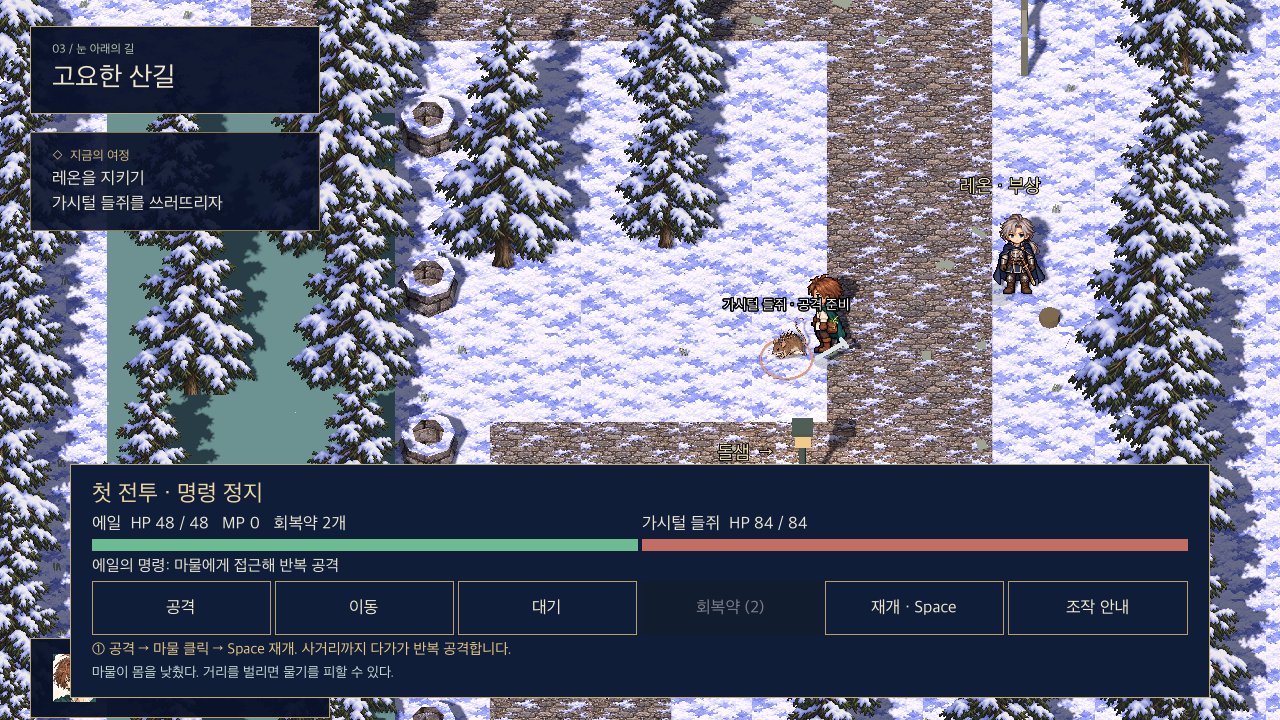
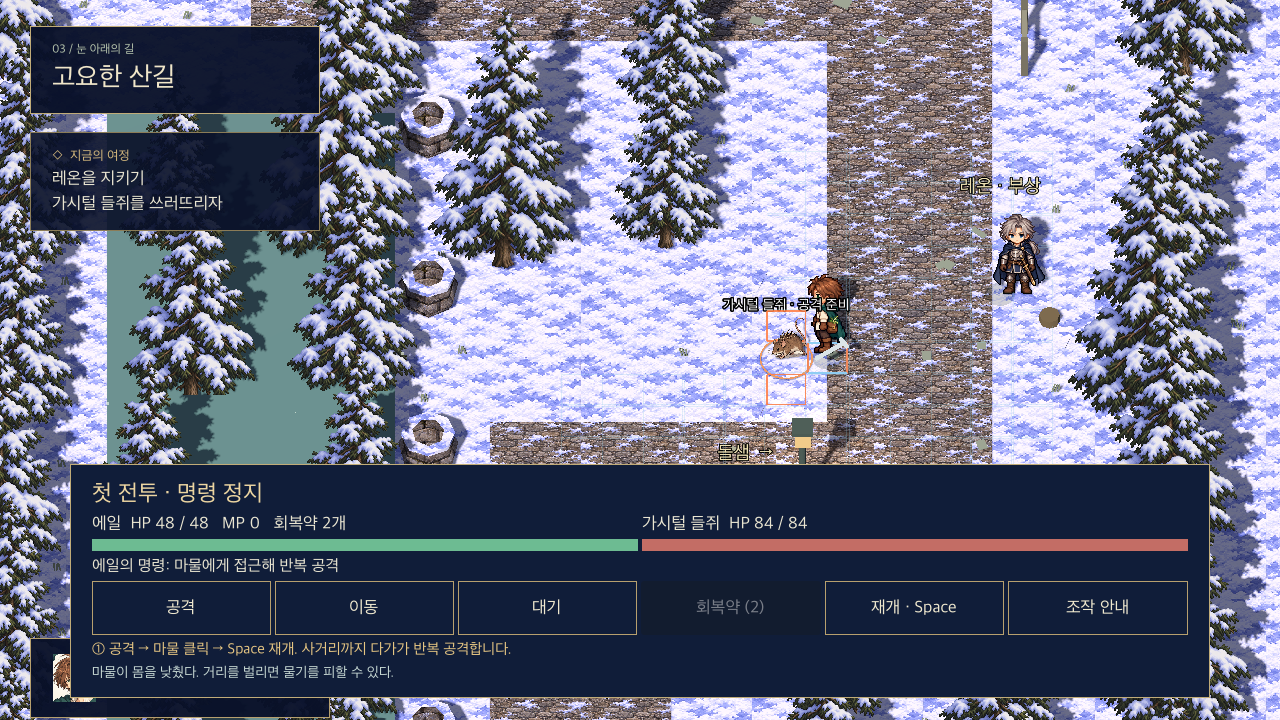
Show battle cells and routes with cardinal adjacent attacks

diff --git a/docs/first-battle.md b/docs/first-battle.md
@@ -99,3 +99,6 @@ godot --headless --path game --script res://tests/prologue_story_test.gd
 ![패배와 재도전](screenshots/16-battle-defeat.png)
 
 ![승리 후 레온 대화](screenshots/17-battle-victory.png)
+
+## 칸 단위 명령 표시 (2026-10-30)
+명령 정지 중 통행 가능한 길에 격자를 표시합니다. 이동 선택 후 마우스를 올리면 초록색 경로, 금색 도착 칸이 보이며 불가능한 도착 칸은 빨간색입니다. 선택한 경로는 시간 진행 중에도 남습니다. 적 주변 주황색 네 칸은 검의 사거리입니다. 양쪽이 칸에 멈추고 상하좌우로 인접해야 공격이 맞습니다. 대각선이나 이동 중 공격은 맞지 않습니다.
